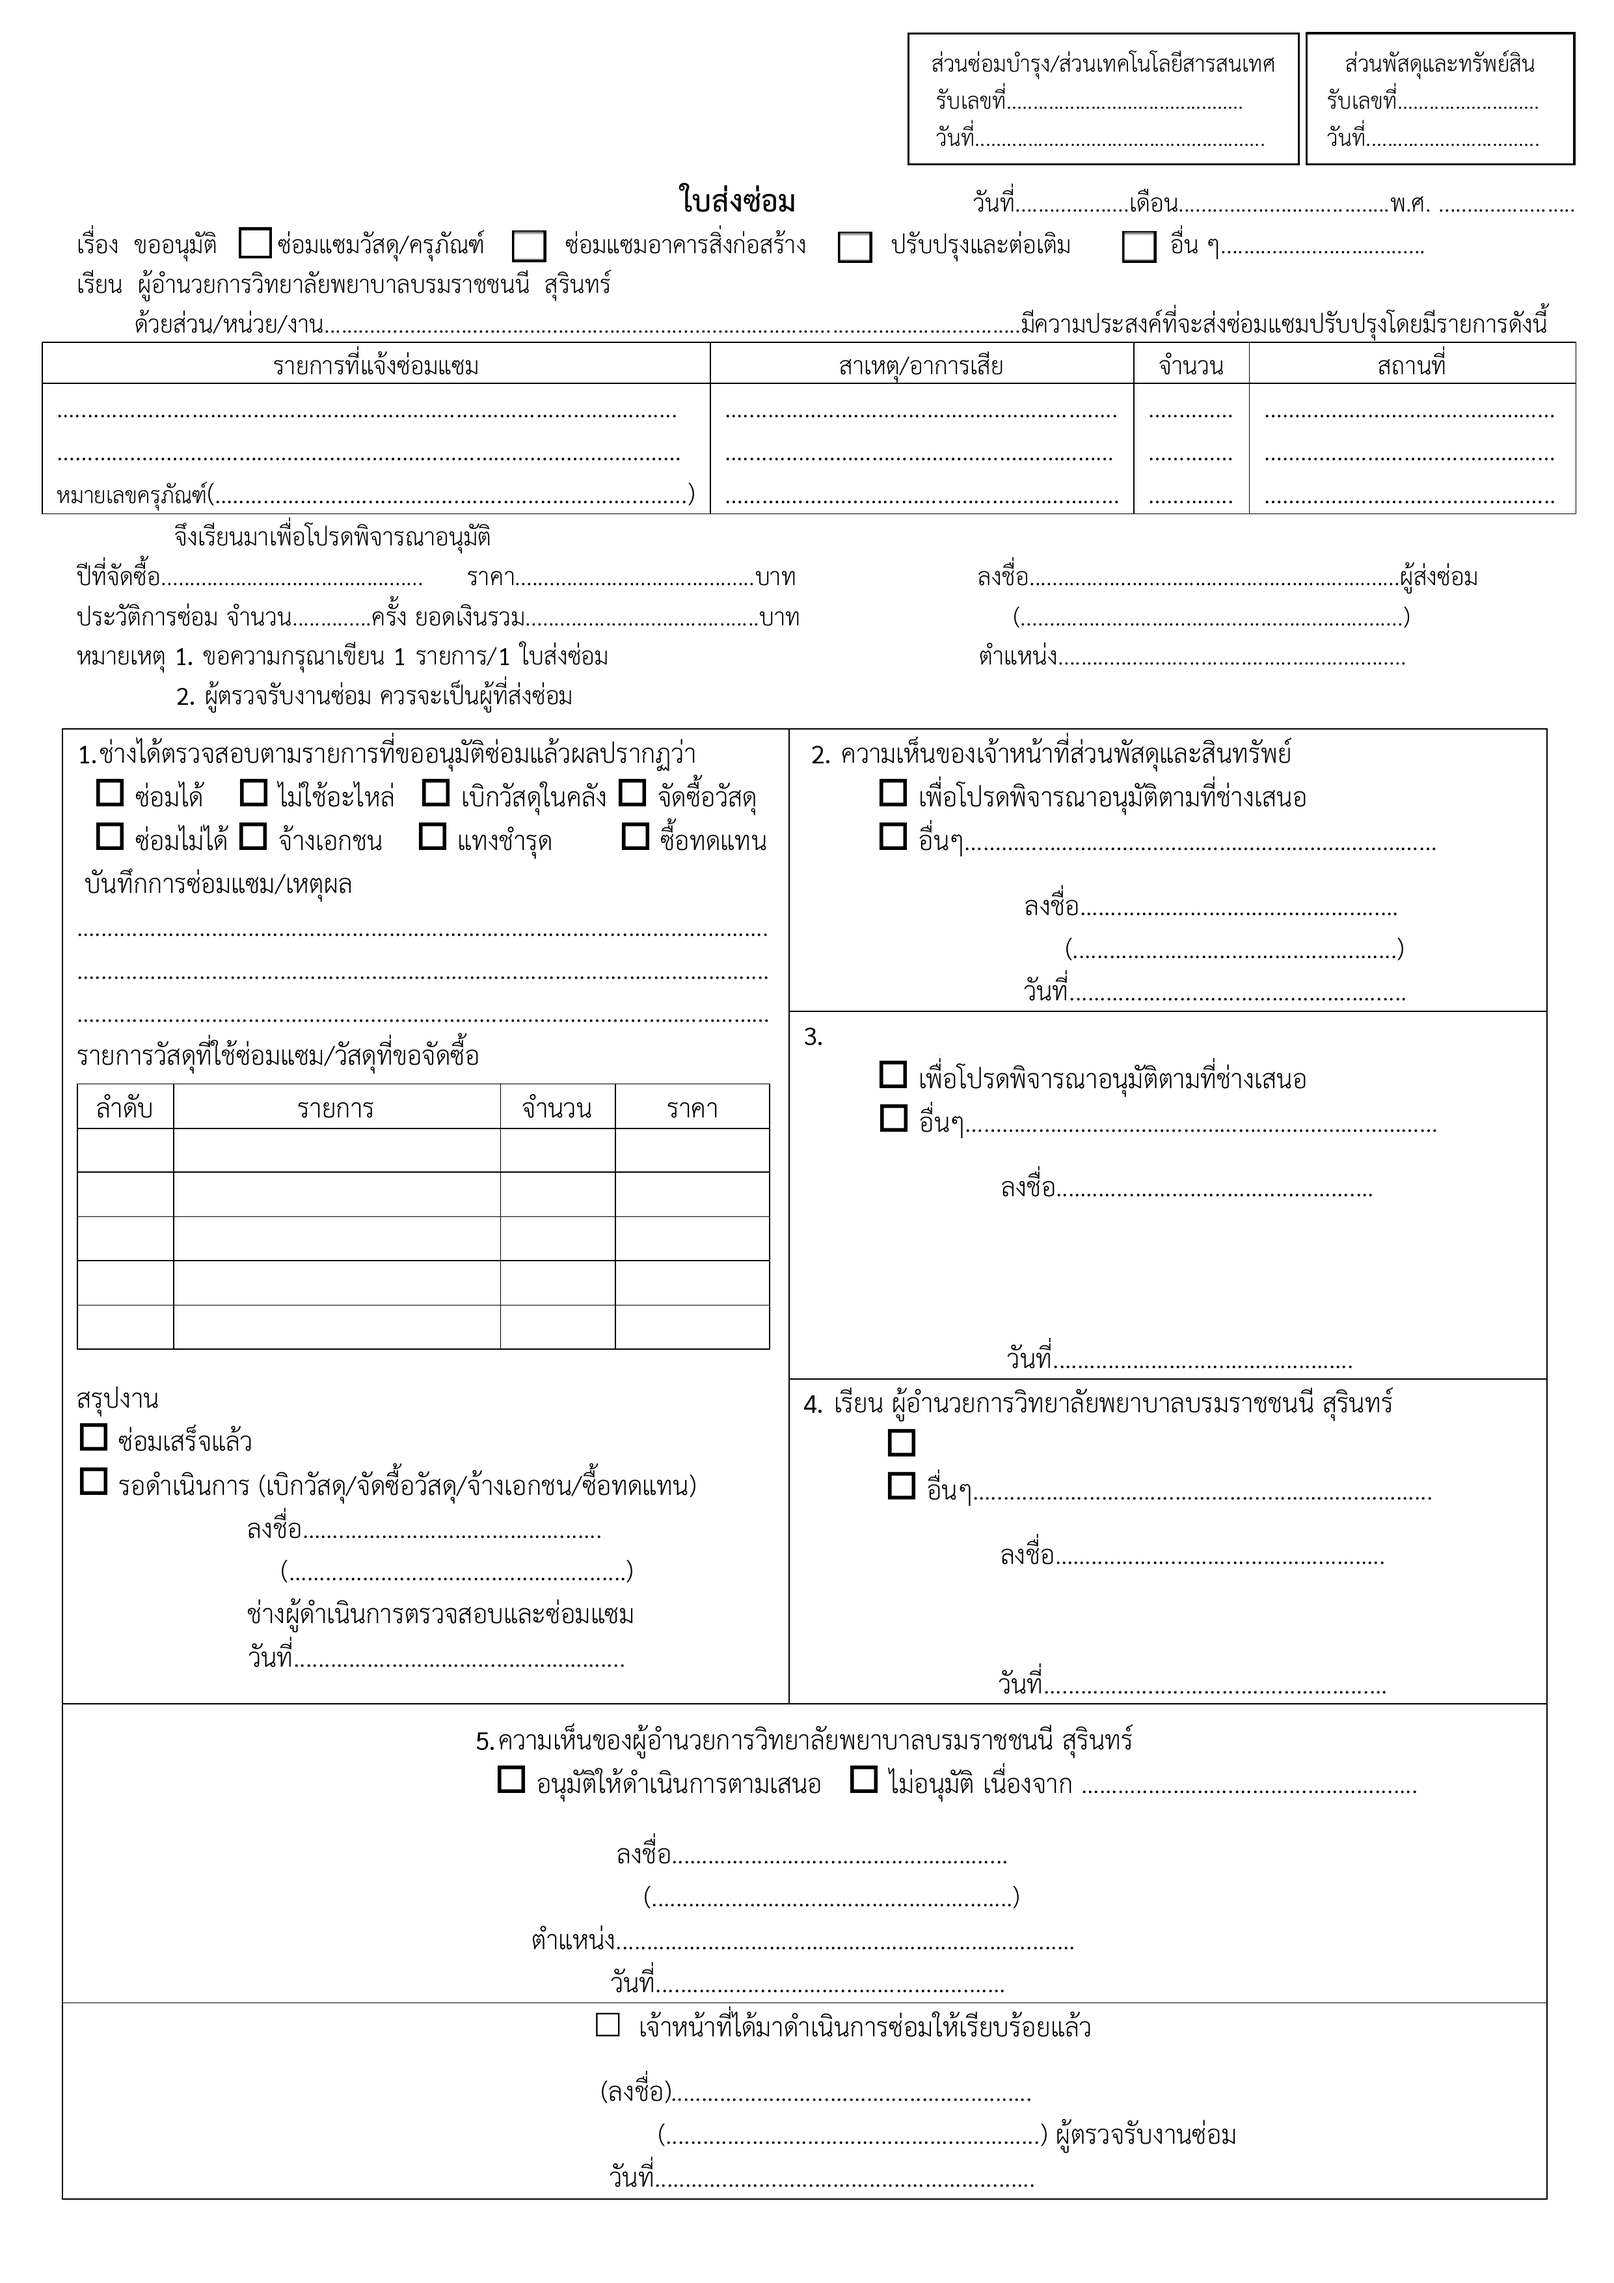
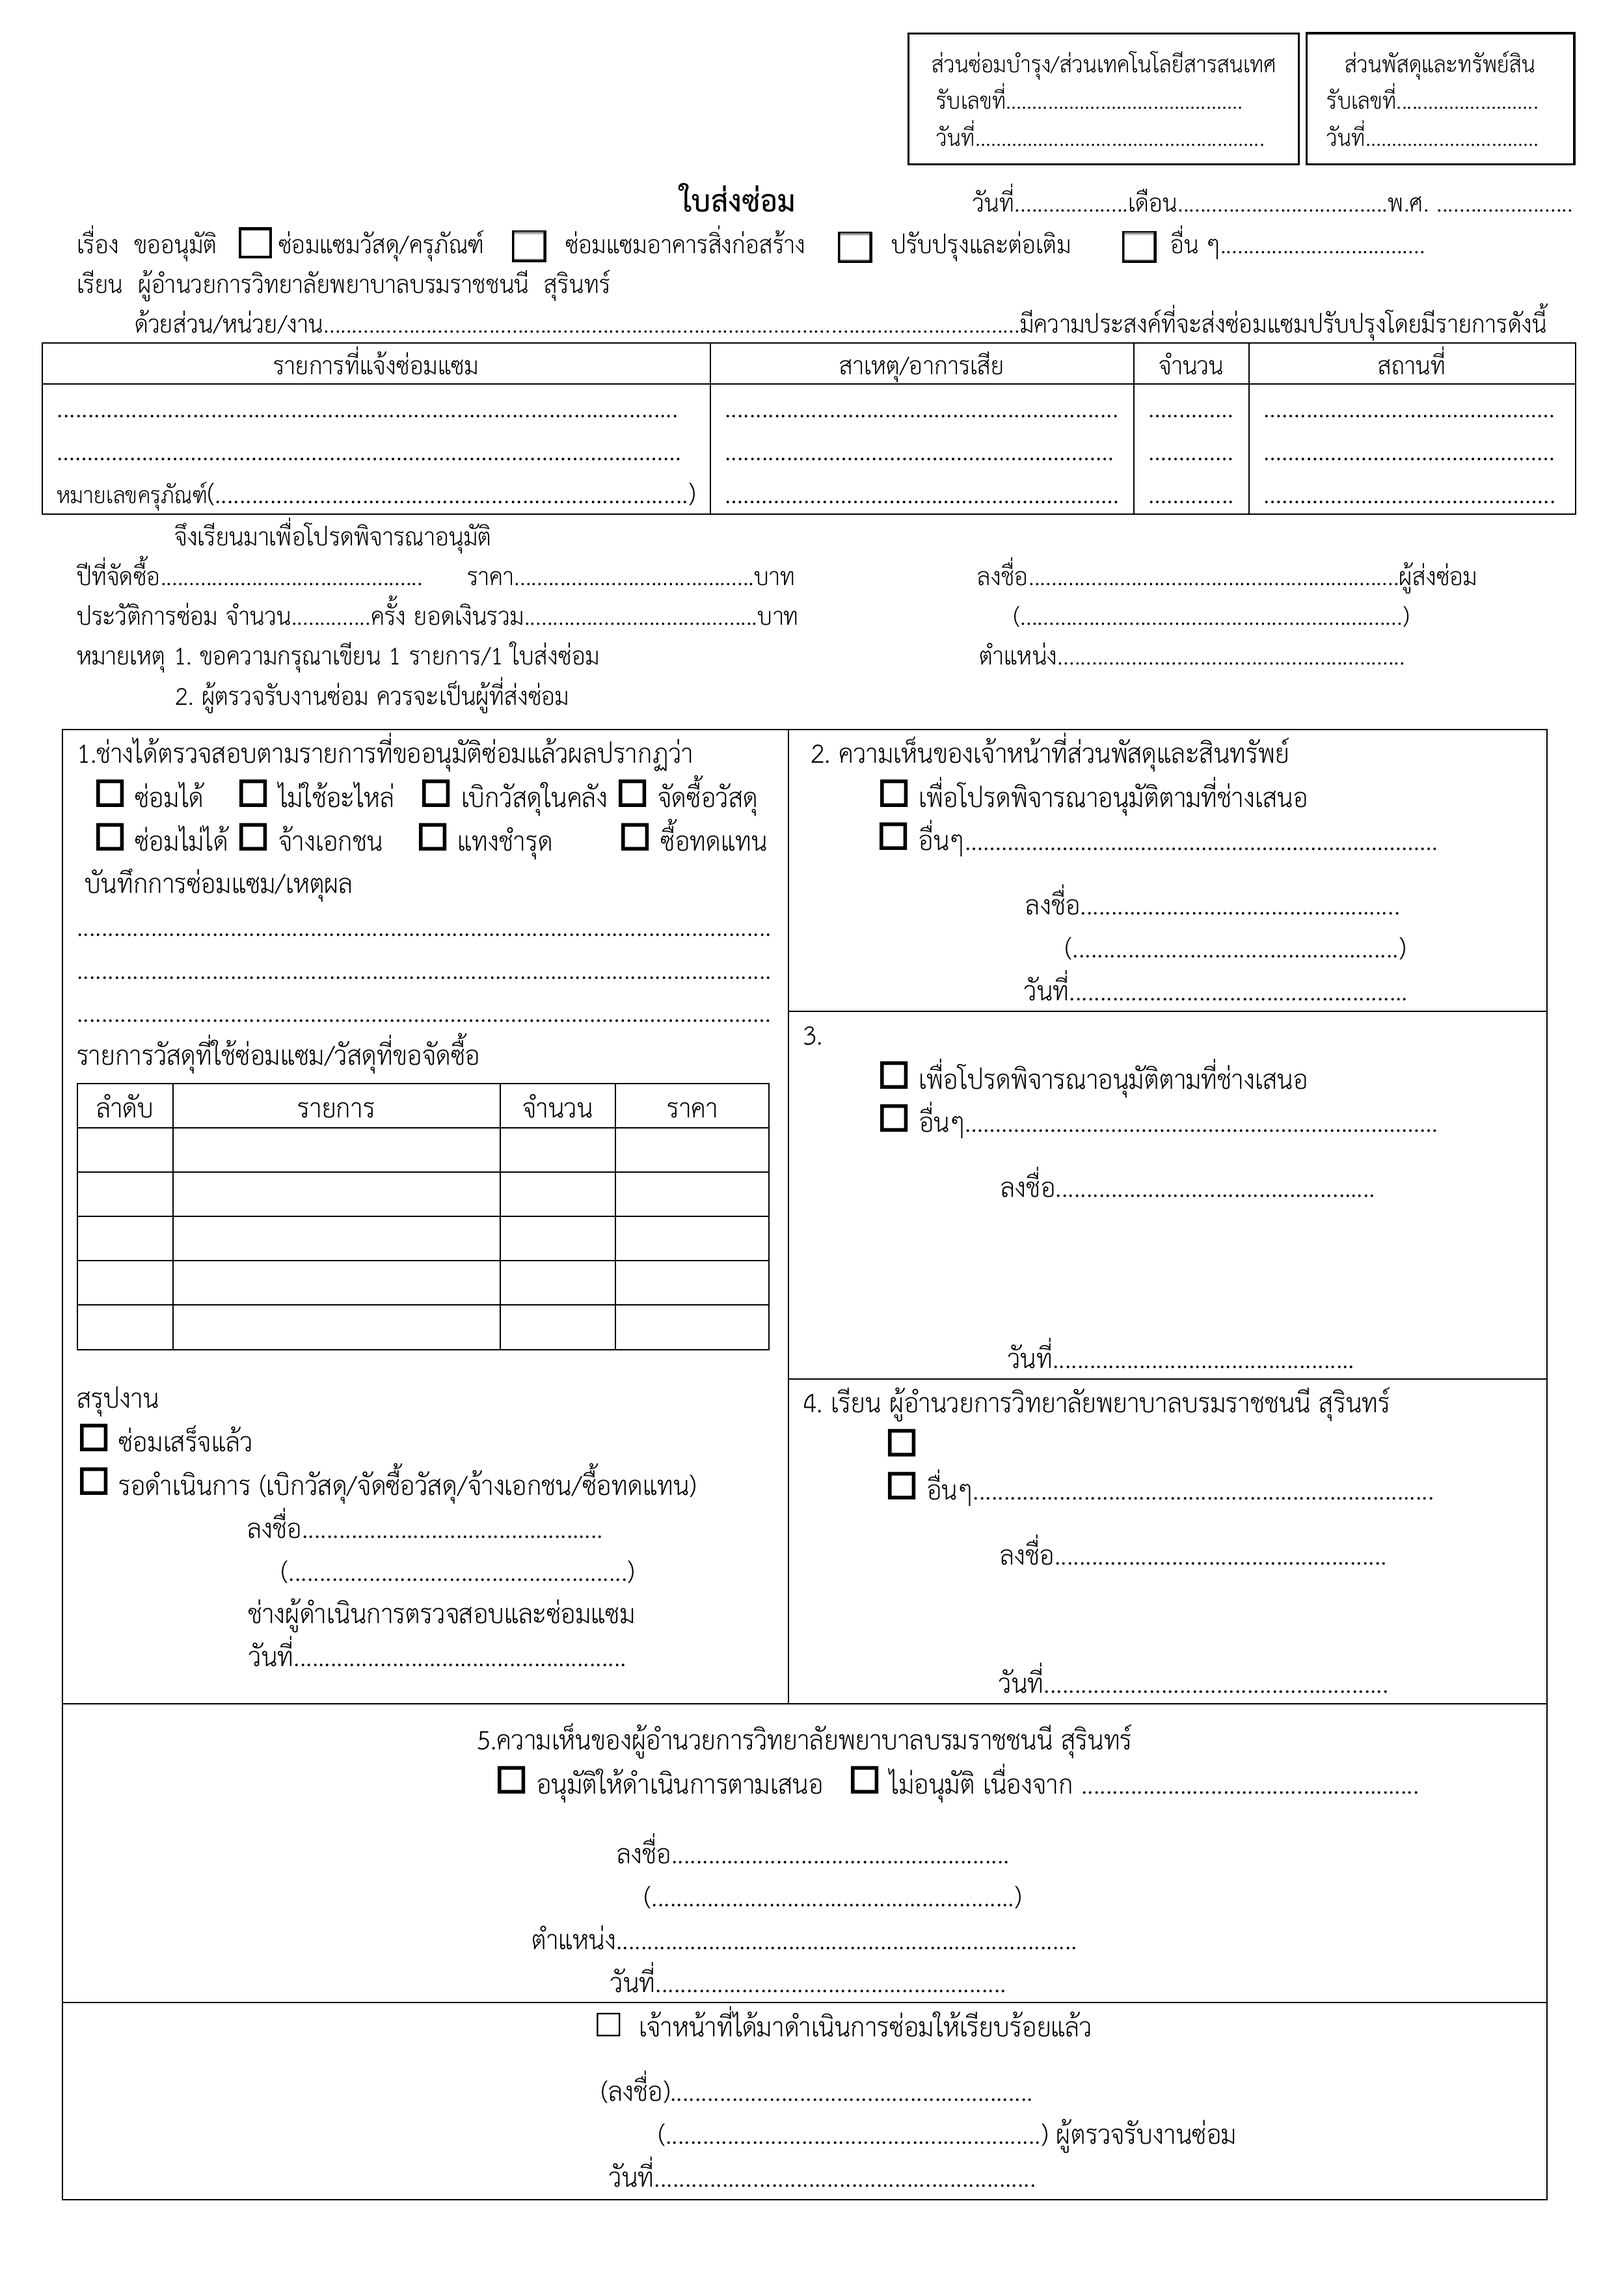
Add files via upload

diff --git a/fix/index.html b/fix/index.html
@@ -541,7 +541,7 @@ function pfFromAsset() { var a = PF && PF.info.asset; if (!a) return; PF.v.purch
 async function pfSave() { try { await rpc("fix_print_save", { p_id: PF.id, p_fields: PF.v }); PRINT_REP = null; $("pfMsg").className = "msg ok"; $("pfMsg").textContent = "บันทึกแล้ว"; } catch (e) { $("pfMsg").className = "msg err"; $("pfMsg").textContent = "บันทึกไม่สำเร็จ: " + (e.message || e); } }
 /* ---- ใบส่งซ่อมแบบเหมือนต้นฉบับ: PDF = ภาพแบบฟอร์มต้นฉบับ + ข้อความวางตามตำแหน่ง (A4 หน้าเดียว)
         Word = เติมข้อมูลลงไฟล์ต้นฉบับ .docx (repair-form-template.docx) โดยตรง ---- */
-var PF_BG = "repair-form-bg.png?v=11.5", PF_TPL = "repair-form-template.docx?v=11.5";
+var PF_BG = "repair-form-bg.png?v=11.8", PF_TPL = "repair-form-template.docx?v=11.8";
 var JSZIP_URL = "https://cdn.jsdelivr.net/npm/jszip@3.10.1/dist/jszip.min.js", JSZIP_SRI = "sha384-+mbV2IY1Zk/X1p/nWllGySJSUN8uMs+gUAN10Or95UBH0fpj6GfKgPmgC5EXieXG";
 /* ความกว้างโดยประมาณ หน่วย = จุด 1 ตัว (ใช้แบ่งบรรทัดและเติมจุดให้ยาวเท่าเดิม) */
 function pfW(t) { var w = 0; String(t || "").replace(/[\s\S]/g, function (c) { w += c === "." ? 1 : c === "…" ? 3 : c === " " ? 1.2 : /[ัิ-ฺ็-๎]/.test(c) ? 0 : 2.4; return c; }); return w; }
@@ -591,13 +591,13 @@ function pfFormHTML() {
     at(155.0, 50.0, d.qty, { c: 1, fs: 14 }) + at(165, 50.0, lc[0], { w: 38, fs: 14 }) + at(165, 55.6, lc[1], { w: 38, fs: 14 }) + at(165, 61.2, lc[2], { w: 38, fs: 14 }) +
     at(39.5, 72.0, d.purchaseYear, { c: 1 }) + at(85.5, 72.0, d.price, { c: 1 }) +
     at(157.7, 77.3, d.senderName, { c: 1 }) + at(157.7, 82.4, d.senderPosition, { c: 1 }) +
-    at(108.6, 131.8, "เรียน " + S.deputyPos, { sz: fit("เรียน " + S.deputyPos, 91), w: 92 }) +
+    at(108.2, 131.8, "เรียน " + S.deputyPos, { sz: fit("เรียน " + S.deputyPos, 91), w: 92 }) +
     at(156.5, 157.0, S.headName ? "(" + S.headName + ")" : "", sg) + at(156.6, 162.6, S.headPos1, sg) + at(156.3, 168.3, S.headPos2, sg) +
     at(120.7, 185.3, "เห็นควรอนุมัติตามที่" + S.headPos2 + "เสนอ", { sz: fit("เห็นควรอนุมัติตามที่" + S.headPos2 + "เสนอ", 79), w: 80 }) +
     at(159.3, 205.0, S.deputyName ? "(" + S.deputyName + ")" : "", sg) + at(160.0, 210.6, S.deputyPos, sg) +
     at(85, 243.8, S.directorName, { sz: fit(S.directorName, 46), w: 47, tc: 1 }) + at(81, 249.4, S.directorPos, { sz: fit(S.directorPos, 58), w: 59, tc: 1 }) + "</div>";
 }
-var PF_PT = 12, PF_PT2 = 13;  /* ขนาดตัวอักษรข้อมูลจากระบบ (เล็กกว่าแบบฟอร์ม 13/14pt เพื่อให้ใส่ข้อความยาวได้) */
+var PF_PT = 13, PF_PT2 = 14;  /* ขนาดตัวอักษรข้อมูลจากระบบ (เล็กกว่าแบบฟอร์ม 13/14pt เพื่อให้ใส่ข้อความยาวได้) */
 /* ตัวเลขอารบิกเสมอ: ฟอนต์ TH SarabunIT๙ แสดงเลข 0-9 เป็นเลขไทย จึงให้ตัวเลขใช้ฟอนต์ PSK/New ถ้าไม่มีใช้ Tahoma (ย่อให้ขนาดใกล้เคียง) */
 var PF_DIGITS = "@font-face{font-family:'pfdig';src:local('TH SarabunPSK'),local('THSarabunPSK'),local('TH Sarabun New'),local('THSarabunNew');unicode-range:U+0030-0039}" +
   "@font-face{font-family:'pfdig2';src:local('Tahoma');unicode-range:U+0030-0039;size-adjust:72%}";
